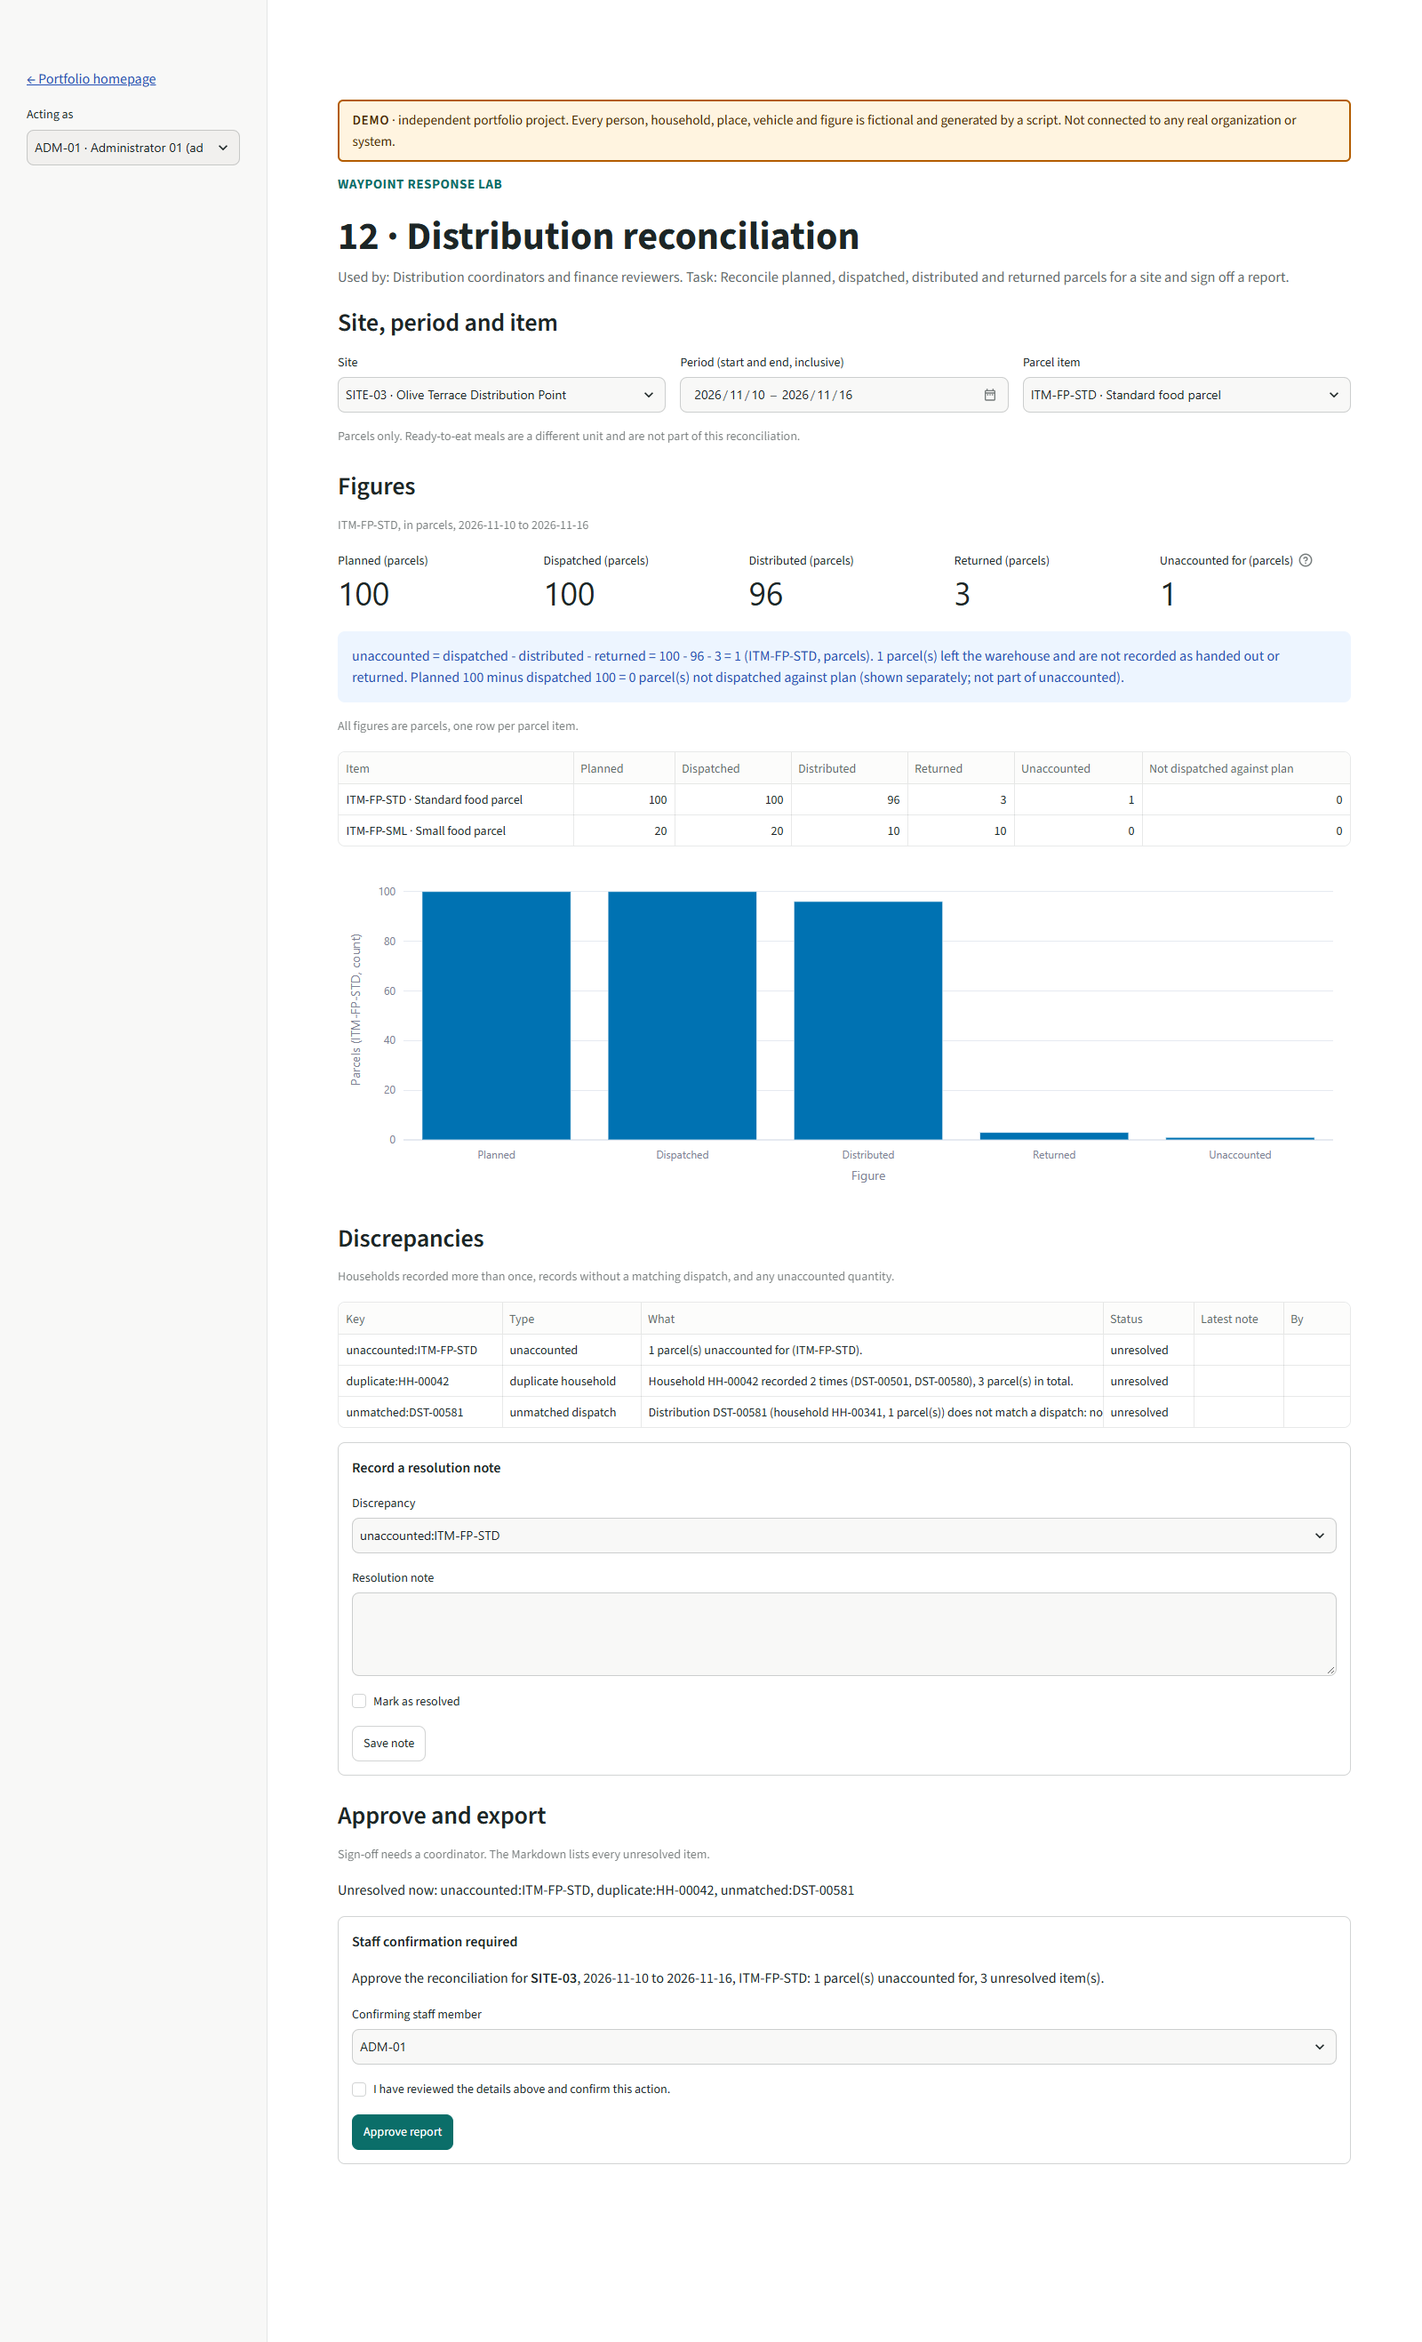
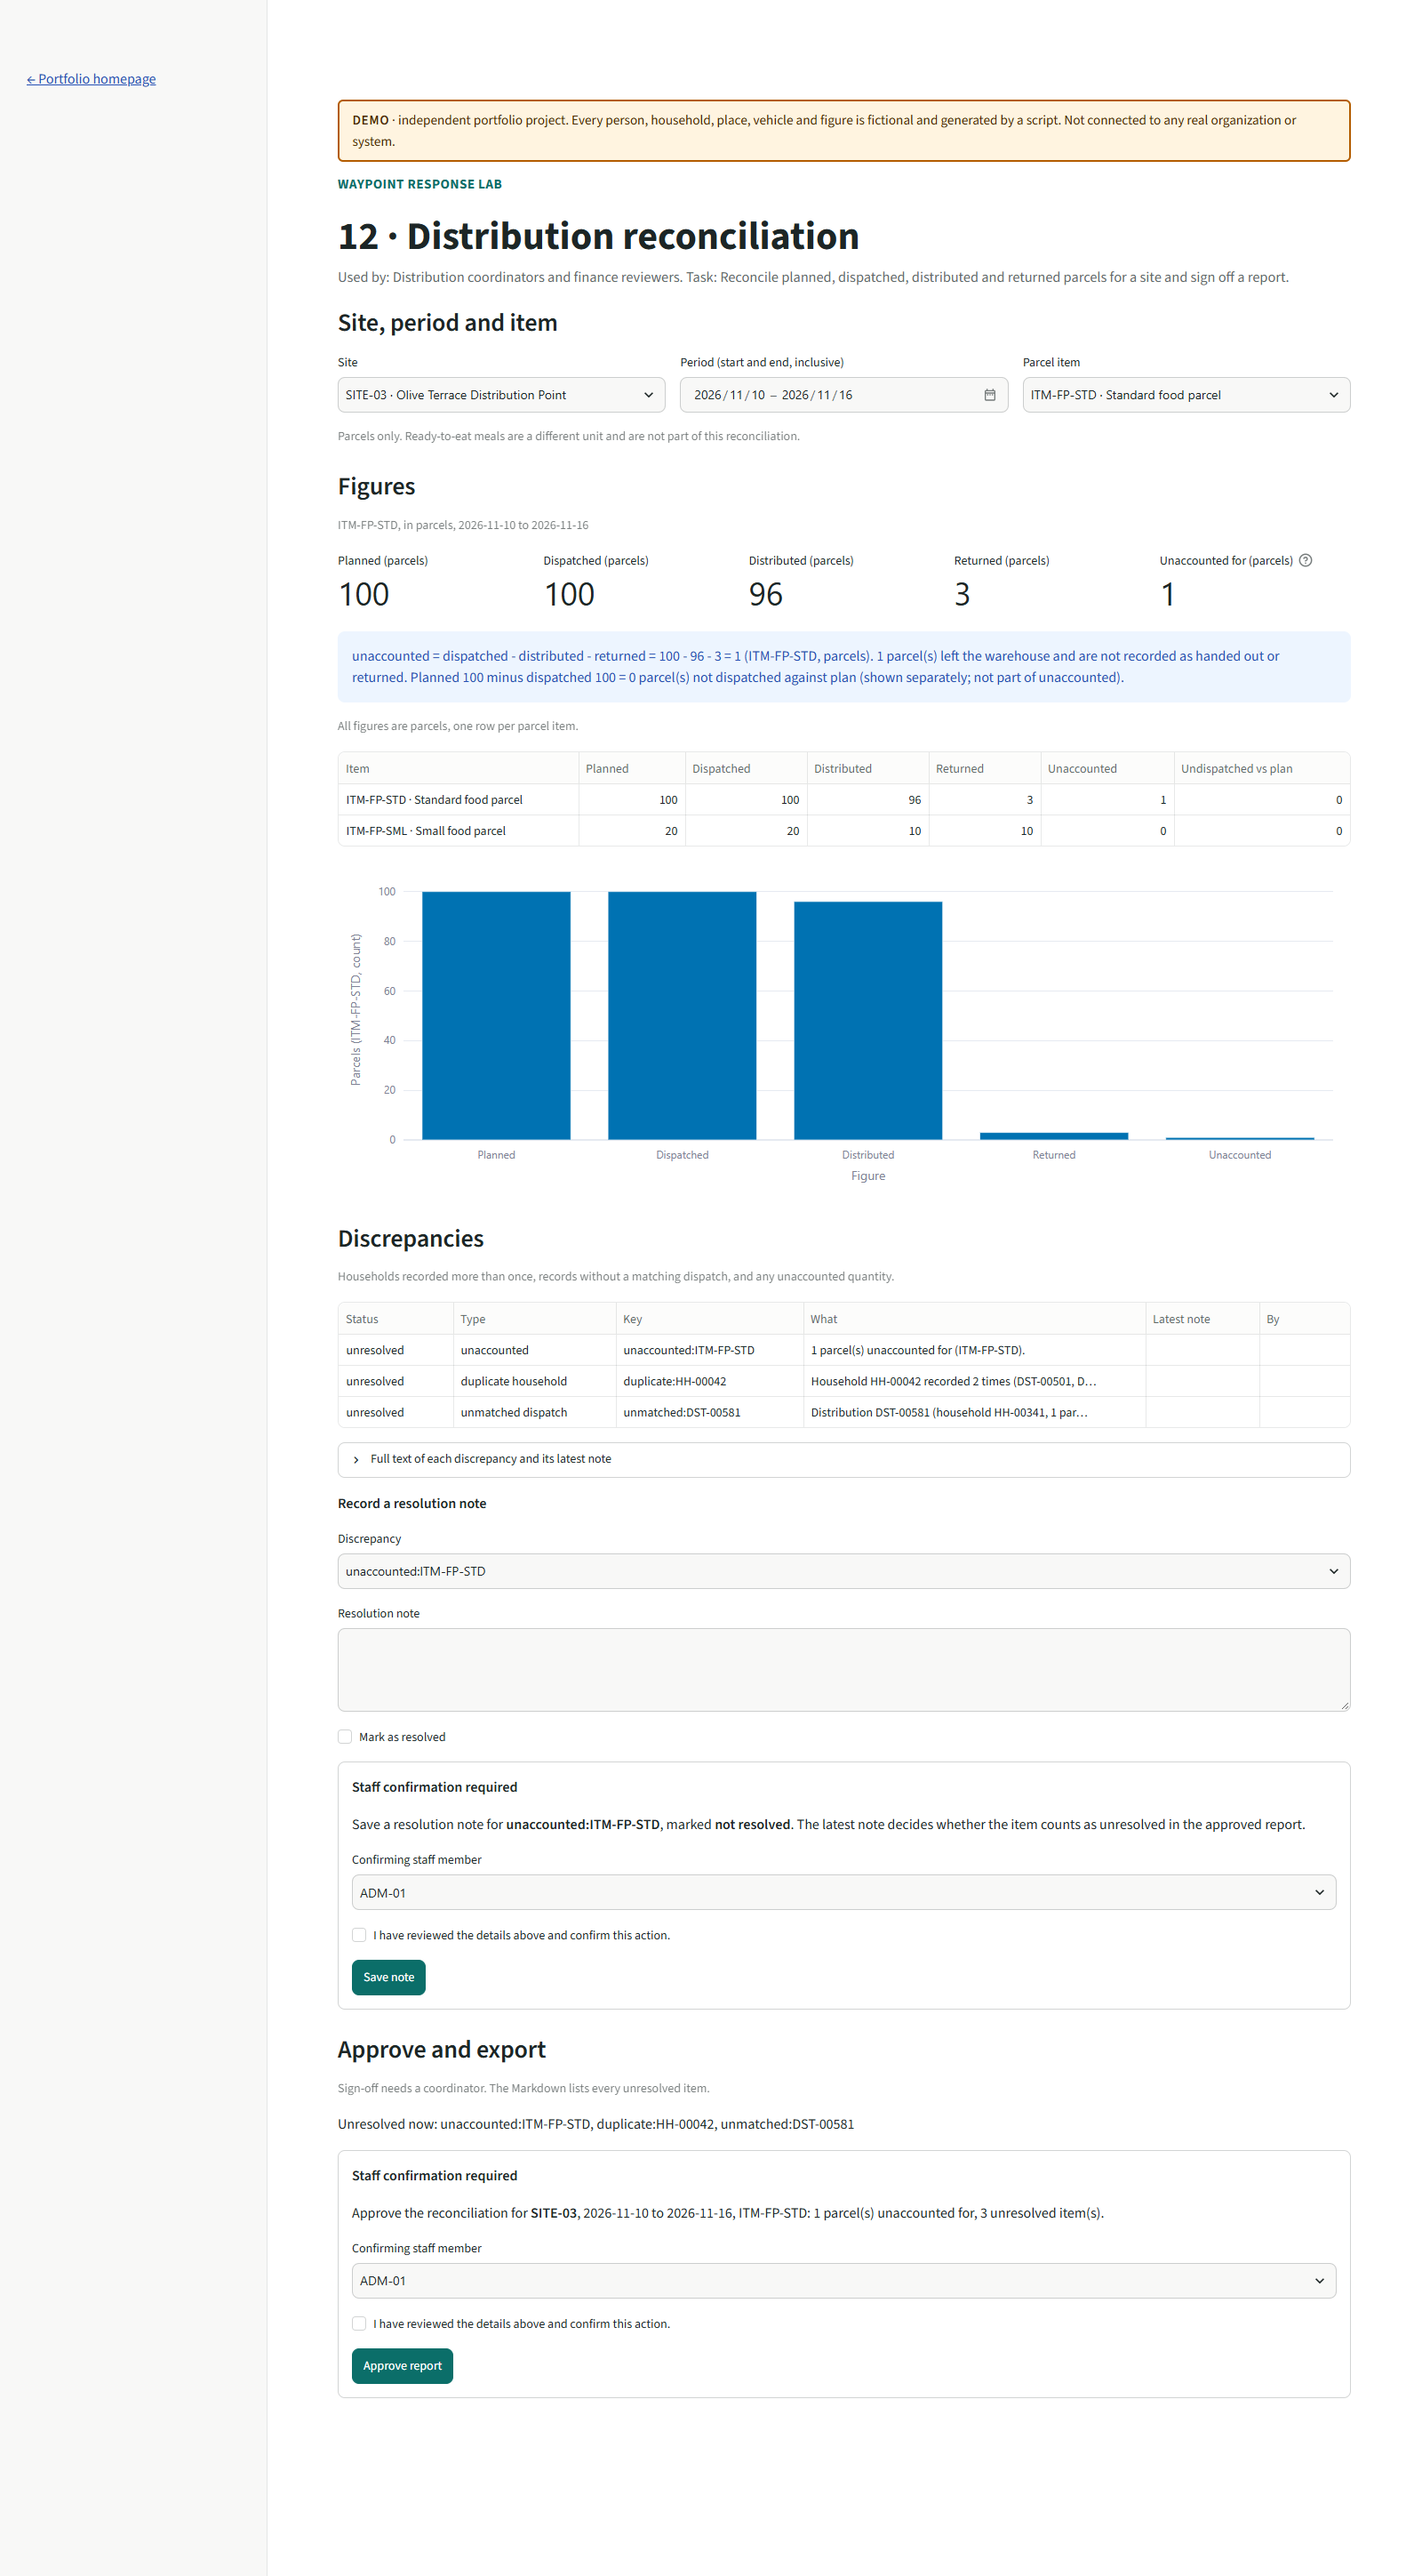
Project 12: narrower tables, confirmations, fresh screenshot

diff --git a/projects/12-distribution-reconciliation-report/app.py b/projects/12-distribution-reconciliation-report/app.py
@@ -12,9 +12,12 @@ import p12_reconciliation as rec  # noqa: E402
 import pandas as pd  # noqa: E402
 import streamlit as st  # noqa: E402
 
-from shared import charts, clock, db, ui  # noqa: E402
+from shared import charts, clock, confirm, db, ui  # noqa: E402
 
 ui.page_header(project_number=12)
+
+if "p12_flash" in st.session_state:
+    st.success(st.session_state.pop("p12_flash"))
 
 conn = db.connect()
 scenario = rec.default_scenario(conn)
@@ -24,8 +27,6 @@ site_ids = [s["site_id"] for s in site_rows]
 site_names = {s["site_id"]: s["name"] for s in site_rows}
 item_ids = [i["item_id"] for i in item_rows]
 item_names = {i["item_id"]: i["name"] for i in item_rows}
-
-acting = ui.staff_selector(key="p12_acting")
 
 # -- pickers -----------------------------------------------------------------
 ui.section("Site, period and item")
@@ -90,7 +91,7 @@ for i in item_ids:
             "Distributed": f["distributed"],
             "Returned": f["returned"],
             "Unaccounted": f["unaccounted"],
-            "Not dispatched against plan": f["not_dispatched_against_plan"],
+            "Undispatched vs plan": f["not_dispatched_against_plan"],
         }
     )
 st.caption("All figures are parcels, one row per parcel item.")
@@ -110,37 +111,50 @@ ui.section("Discrepancies", "Households recorded more than once, records without
 if not disc:
     st.success("No discrepancies for this site, period and item.")
 else:
+
+    def short(text: str, n: int = 50) -> str:
+        return text if len(text) <= n else text[: n - 1].rstrip() + "…"
+
     ui.table(
         pd.DataFrame(
             [
                 {
-                    "Key": d["key"],
-                    "Type": d["type"].replace("_", " "),
-                    "What": d["description"],
                     "Status": "resolved" if d["resolved"] else "unresolved",
-                    "Latest note": d["note"] or "",
+                    "Type": d["type"].replace("_", " "),
+                    "Key": d["key"],
+                    "What": short(d["description"]),
+                    "Latest note": short(d["note"] or ""),
                     "By": d["note_staff"] or "",
                 }
                 for d in disc
             ]
         )
     )
-    with st.form("p12_note_form", clear_on_submit=True):
-        st.markdown("**Record a resolution note**")
-        keys = [d["key"] for d in disc]
-        key = st.selectbox("Discrepancy", keys, key="p12_note_key")
-        note = st.text_area("Resolution note", key="p12_note_text")
-        resolved = st.checkbox("Mark as resolved", key="p12_note_resolved")
-        saved = st.form_submit_button("Save note")
-    if saved:
-        chosen = next(d for d in disc if d["key"] == key)
+    with st.expander("Full text of each discrepancy and its latest note"):
+        for d in disc:
+            st.markdown(f"**{d['key']}** ({'resolved' if d['resolved'] else 'unresolved'}): {d['description']}")
+            if d["note"]:
+                st.markdown(f"> {d['note']} ({d['note_staff']}, {d['note_at']})")
+    st.markdown("**Record a resolution note**")
+    keys = [d["key"] for d in disc]
+    key = st.selectbox("Discrepancy", keys, key="p12_note_key")
+    note = st.text_area("Resolution note", key="p12_note_text")
+    resolved = st.checkbox("Mark as resolved", key="p12_note_resolved")
+    chosen = next(d for d in disc if d["key"] == key)
+    noter = ui.confirm_action(
+        "p12_note",
+        f"Save a resolution note for **{key}**, marked **{'resolved' if resolved else 'not resolved'}**. "
+        "The latest note decides whether the item counts as unresolved in the approved report.",
+        button_label="Save note",
+    )
+    if noter:
         try:
             with db.transaction() as wconn:
-                rec.add_note(wconn, site_id, start, end, key, chosen["type"], note, resolved, acting or "")
-            st.success(f"Note saved for {key}.")
+                rec.add_note(wconn, site_id, start, end, key, chosen["type"], note, resolved, noter)
+            st.session_state["p12_flash"] = f"Note saved for {key}, confirmed by {noter}."
             st.rerun()
-        except ValueError as exc:
-            st.error(str(exc))
+        except (ValueError, confirm.ConfirmationRequired) as exc:
+            st.error(f"Nothing was saved. {exc}")
 
 # -- approval ----------------------------------------------------------------
 ui.section("Approve and export", "Sign-off needs a coordinator. The Markdown lists every unresolved item.")

diff --git a/tests/test_p12_reconciliation.py b/tests/test_p12_reconciliation.py
@@ -230,8 +230,12 @@ def test_note_validation(conn: sqlite3.Connection, scenario: dict) -> None:
     s, a, b = scenario["site_id"], scenario["period_start"], scenario["period_end"]
     with pytest.raises(ValueError):
         rec.add_note(conn, s, a, b, "unaccounted:x", "unaccounted", "   ", True, "FW-01")
-    with pytest.raises(ValueError):
+    with pytest.raises(ConfirmationRequired):
         rec.add_note(conn, s, a, b, "unaccounted:x", "unaccounted", "text", True, "NOPE-99")
+    for nobody in (None, "", "  "):
+        with pytest.raises(ConfirmationRequired):
+            rec.add_note(conn, s, a, b, "unaccounted:x", "unaccounted", "text", True, nobody)  # type: ignore[arg-type]
+    assert conn.execute("SELECT COUNT(*) FROM reconciliation_notes WHERE discrepancy_key = 'unaccounted:x'").fetchone()[0] == 0
     with pytest.raises(ValueError):
         rec.add_note(conn, s, a, b, "k", "bogus", "text", True, "FW-01")
 
@@ -300,6 +304,14 @@ def test_app_starts_without_exception(app_test) -> None:  # noqa: ANN001
 
 def test_app_walkthrough_notes_and_approval(app_test, db_path, scenario: dict) -> None:  # noqa: ANN001
     """README walkthrough: resolve the duplicate and the unmatched record, approve, check the exported Markdown."""
+
+    def note_count(path) -> int:  # noqa: ANN001
+        c = db.connect(path)
+        try:
+            return c.execute("SELECT COUNT(*) FROM reconciliation_notes").fetchone()[0]
+        finally:
+            c.close()
+
     at = app_test(12).run()
     assert not at.exception
     assert [m.value for m in at.metric] == ["100", "100", "96", "3", "1"]
@@ -311,6 +323,11 @@ def test_app_walkthrough_notes_and_approval(app_test, db_path, scenario: dict) -
         at.selectbox(key="p12_note_key").set_value(key)
         at.text_area(key="p12_note_text").set_value(f"checked {key}")
         at.checkbox(key="p12_note_resolved").check()
+        if key == keys[1]:  # without the tick box nothing is saved
+            notes_before = note_count(db_path)
+            next(b for b in at.button if b.label == "Save note").click().run()
+            assert not at.exception and note_count(db_path) == notes_before
+            at.checkbox(key="confirm_tick_p12_note").check()
         next(b for b in at.button if b.label == "Save note").click().run()
         assert not at.exception
     assert any("Unresolved now: unaccounted:ITM-FP-STD" in m.value for m in at.markdown)

diff --git a/projects/12-distribution-reconciliation-report/p12_reconciliation.py b/projects/12-distribution-reconciliation-report/p12_reconciliation.py
@@ -197,9 +197,7 @@ def add_note(
     text = (note or "").strip()
     if not text:
         raise ValueError("A resolution note cannot be empty.")
-    staff = conn.execute("SELECT active FROM staff WHERE staff_id = ?", (staff_id,)).fetchone()
-    if staff is None or not staff["active"]:
-        raise ValueError(f"Unknown or inactive staff ID: {staff_id}")
+    confirm.require_confirmation(conn, staff_id)  # any active staff member; marking an item resolved is a recorded decision
     cur = conn.execute(
         """INSERT INTO reconciliation_notes(site_id, period_start, period_end, discrepancy_key, discrepancy_type,
                                             note, resolved, staff_id, at) VALUES (?,?,?,?,?,?,?,?,?)""",

diff --git a/projects/12-distribution-reconciliation-report/README.md b/projects/12-distribution-reconciliation-report/README.md
@@ -24,7 +24,7 @@ Seeded tables `distribution_plans`, `dispatches`, `distributions`, `distribution
 - Parcels only (`ITM-FP-STD` and `ITM-FP-SML` are reconciled separately, never added together). Ready-to-eat meals are a different unit and are not part of this reconciliation.
 - The latest note for a discrepancy decides whether it is resolved.
 - Notes are keyed by site, period and discrepancy key (not by item), so a household flagged for both parcel items shares one note thread.
-- Sign-off needs a coordinator (or admin) to confirm.
+- Saving a note needs a confirming staff member (any active staff; ticked confirmation form, audited), because a resolved note changes what the report lists as unresolved. Sign-off needs a coordinator (or admin) to confirm.
 
 ## Limitations
 - Matching is by IDs only: a distribution row is "unmatched" if it has no dispatch or its dispatch is for another site or item; quantities are not compared line by line.
@@ -45,7 +45,7 @@ Port 8512.
 The page opens on the seeded scenario (`demo.scenarios` -> `p12`), which names the site, item, period and the two flagged records. The period is always the seven days from 12 to 6 days before the demo date, so its dates move with the seed; the parcel figures below are fixed by the seed's content and are the same whatever the date.
 1. Open the page. The site `SITE-03`, the period (read it in the "Period" box) and item `ITM-FP-STD` are already selected. The figures show 100 planned, 100 dispatched, 96 distributed, 3 returned and **1 parcel unaccounted for**. The explanation reads `unaccounted = dispatched - distributed - returned = 100 - 96 - 3 = 1`.
 2. In the discrepancy list see three flags: `unaccounted:ITM-FP-STD`, `duplicate:HH-00042` (household HH-00042 recorded twice, 3 parcels in total) and `unmatched:DST-00581` (household HH-00341, no dispatch recorded). The scenario names the same two households (`duplicate_household_id`, `unmatched_household_id`); the two distribution IDs shown in the "What" column of the table are the ones to read from the page.
-3. Add a resolution note to the duplicate and to the unmatched record and tick "Mark as resolved" for each; leave the unaccounted parcel without a note. **Expected:** the two rows change to "resolved" and "Unresolved now" lists only `unaccounted:ITM-FP-STD`.
+3. Add a resolution note to the duplicate and to the unmatched record, tick "Mark as resolved" for each, tick the confirmation box and press "Save note"; leave the unaccounted parcel without a note. **Expected:** the two rows change to "resolved" and "Unresolved now" lists only `unaccounted:ITM-FP-STD`.
 4. Choose a coordinator or admin in "Confirming staff member", tick the box and press "Approve report". **Expected:** "Report RCN-... approved by ..." (the number is the next free report ID) with a download button.
 5. Download the Markdown. **Expected:** it states the period and the four figures, the formula `100 - 96 - 3 = 1`, each discrepancy with its latest note, and its "Unresolved items" section lists only `unaccounted:ITM-FP-STD`.
 
